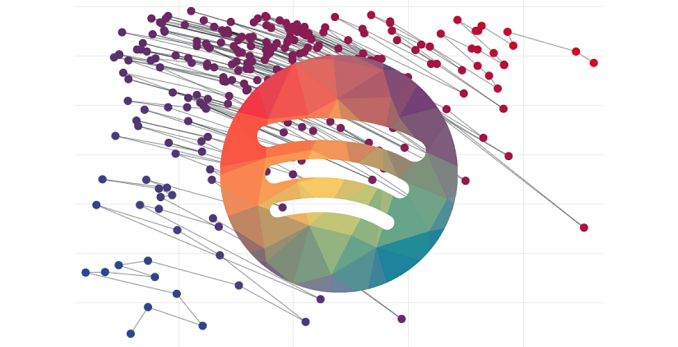
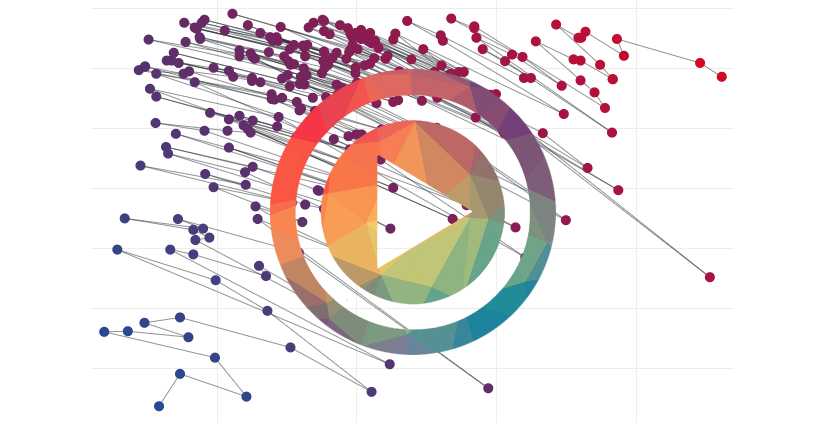
emotionify: Fixed post feature image and added comparison information

diff --git a/posts/emotionify.md b/posts/emotionify.md
@@ -12,15 +12,22 @@ description: "Emotionify is a webapp that allows users to login to Spotify, sele
     <a href="https://emotionify.nitratine.net/"><button class="btn btn-outline-secondary" type="button">Visit Emotionify</button></a>
 </div>
 
-## What is This?
+## Sorting Playlists
 Emotionfy is a webapp that allows users to easily sort their playlists using Spotify's pre-calculated audio feature values. By default, this project aims to create emotionally gradiented Spotify playlists for smoother emotional transitions. It does this by sorting songs based off the two features `Valence` and `Energy` [calculated by Spotify](https://developer.spotify.com/documentation/web-api/reference/tracks/get-audio-features/) based on distance from the origin.
 
 Users have the option to change what songs are sorted by and how they are sorted. It is also possible to select more than one playlist when sorting songs. Below is a visualisation of one of my playlists being sorted:
 
-![Example Visulisation Sort of a Personal Playlist](/post-assets/emotionify/emotionify-sort-comparison.png)
+![Example Visualisation Sort of a Personal Playlist](/post-assets/emotionify/emotionify-sort-comparison.png)
+
+## Comparing Playlists
+By selecting any number of playlists, a user can compare them one or two dimensions for any audio feature or seven dimensions for specific audio features.
+
+This can help you identify similar playlists and see what is different about a playlist's tracks on average using audio features calculated by Spotify.
+
+![Example Visualisation Comparison of a Personal Playlists](/post-assets/emotionify/emotionify-compare-box-plot.png)
 
 
 ## The Future of Emotionify
-I plan to eventually add features that allow users to look at an overview of their playlist's audio features and relations as well as add "playlist utilities" to help making more detailed playlists.
+I plan to eventually add "playlist tools" to help making more detailed playlists.
 
 > Currently the source is not being released as early development occurs.
